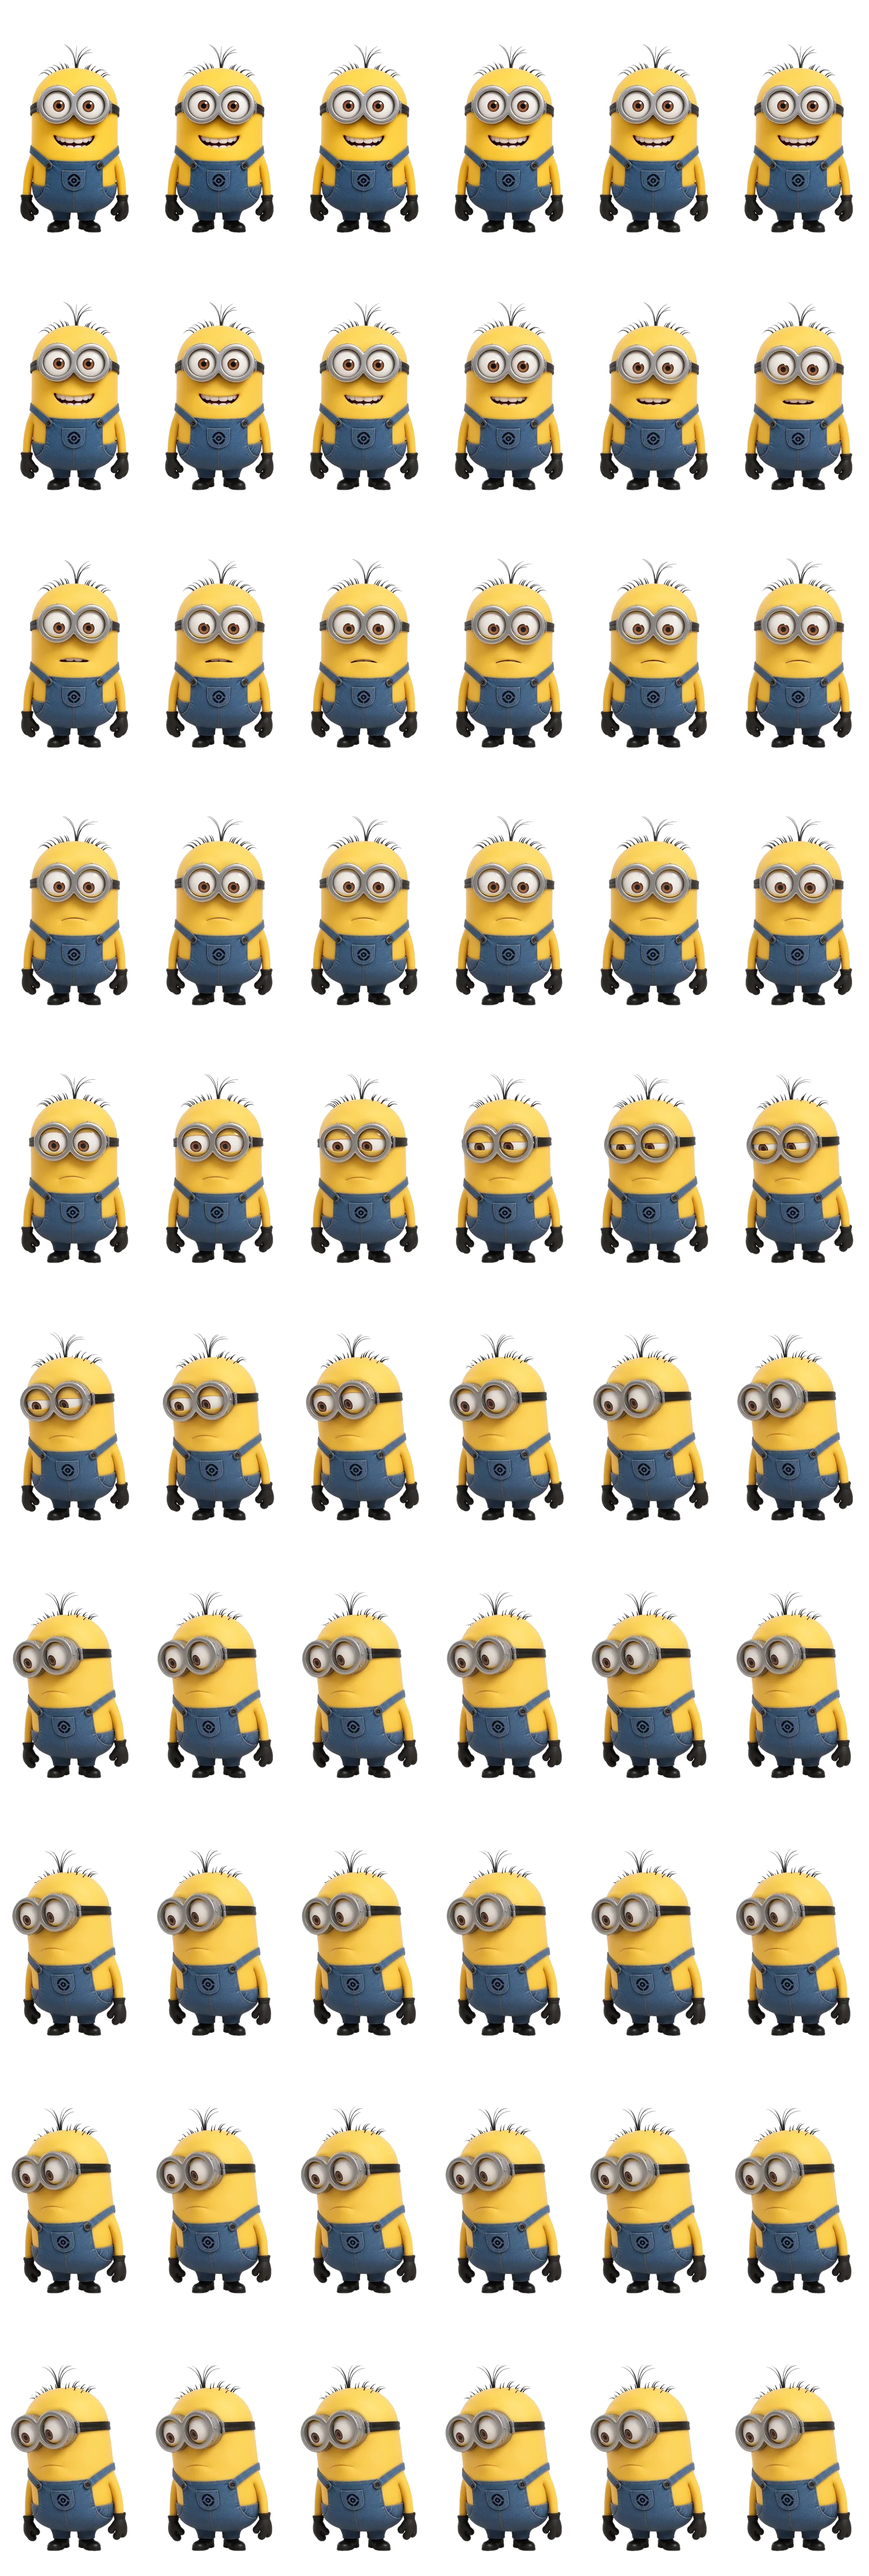
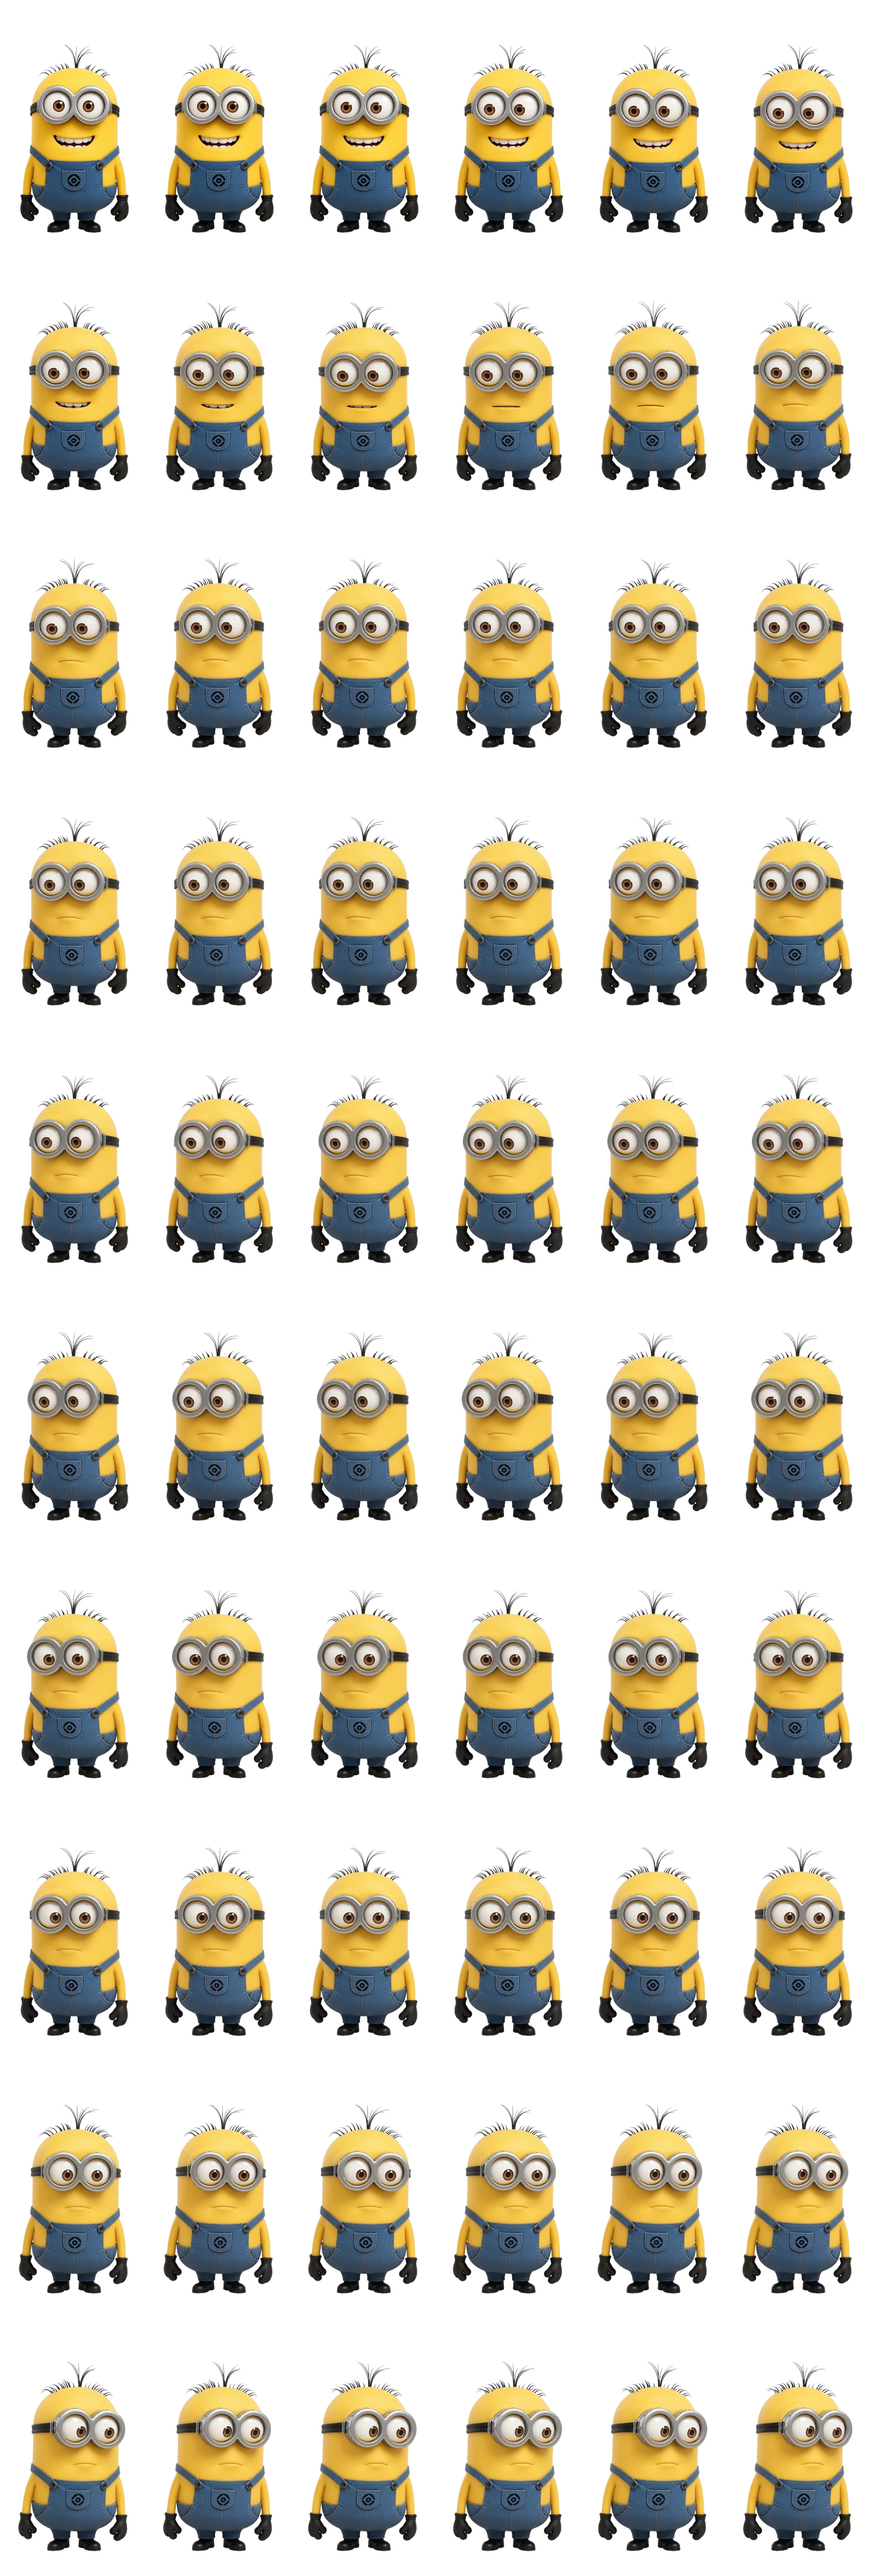
fix(login): yeni yukarı bakış kareleri entegre edildi, şifre alanında ellerle göz kapatma düzeltildi
- Güncellenen 1080x1920 kareler ile sprite sheet'ler ve idle.webp yeniden üretildi
- Göz takibi yeni karelere göre ayarlandı: yukarı sol (frame 65-75), merkez (frame 135), yukarı sağ (frame 95-105)
- Şifre alanına odaklanıldığında veya şifre yazılırken ellerin gözü kapatıp kapalı tutması (frame 180 sabit tutma) sağlandı
- Şifre alanından çıkıldığında karakter ellerini indirerek normal bakışa geri dönüyor

diff --git a/app/admin/login/page.tsx b/app/admin/login/page.tsx
@@ -376,9 +376,9 @@ export default function AdminLoginPage() {
   const characterMode: CharacterMode =
     step !== 'credentials'
       ? 'idle'
-      : activeField === 'password' && password.length > 0
+      : activeField === 'password'
         ? 'privacy'
-        : activeField === 'email' && email.length > 0
+        : activeField === 'email'
           ? 'typing'
           : 'pointer';
 
@@ -754,19 +754,24 @@ const FRAMES_PER_SHEET = 60;
 const TOTAL_FRAMES = 240;
 
 function gazeFrame(progress: number) {
-  const clampedProgress = Math.min(Math.max(progress, 0), 1);
-  // Klipte sol bakış 1–2.5 sn (frames 33–75), sağ bakış 3.3–5.1 sn (frames 99–153)
-  const time =
-    clampedProgress < 0.5
-      ? 1.1 + clampedProgress * 2.8
-      : 3.3 + (clampedProgress - 0.5) * 3.6;
-  return Math.min(TOTAL_FRAMES - 1, Math.max(0, Math.round(time * 30)));
+  const p = Math.min(Math.max(progress, 0), 1);
+  if (p < 0.4) {
+    // Sola / Yukarı Sola bakış (frame 65 - 75)
+    const t = p / 0.4;
+    return Math.round(64 + t * 10);
+  } else if (p > 0.6) {
+    // Sağa / Yukarı Sağa bakış (frame 95 - 105)
+    const t = (p - 0.6) / 0.4;
+    return Math.round(94 + t * 10);
+  }
+  // Merkeze / öne bakış (frame 135)
+  return 134;
 }
 
 function targetFrameForMode(mode: CharacterMode, emailLength: number) {
-  if (mode === 'privacy') return 239; // 8.0s - gözleri ellerle kapatma
+  if (mode === 'privacy') return 179; // Frame 180: eller gözleri kapalı tutar
   if (mode === 'typing') return gazeFrame(Math.min(emailLength, 32) / 32);
-  return 174; // 5.8s - merkeze / öne bakış
+  return 134; // Frame 135: merkeze / öne bakış (idle)
 }
 
 function CharacterFrames({
@@ -779,8 +784,8 @@ function CharacterFrames({
   const canvasRef = useRef<HTMLCanvasElement>(null);
   const characterRef = useRef<HTMLDivElement>(null);
   const behaviorRef = useRef({ mode, emailLength });
-  const targetFrameRef = useRef(174);
-  const currentFrameRef = useRef(174);
+  const targetFrameRef = useRef(134);
+  const currentFrameRef = useRef(134);
   const rafRef = useRef<number>(0);
   const sheetsRef = useRef<HTMLImageElement[]>([]);
   const lastDrawnFrameRef = useRef<number>(-1);
@@ -822,7 +827,7 @@ function CharacterFrames({
       const img = new window.Image();
       img.src = `/media/character/sheet_${i}.webp`;
       img.onload = () => {
-        // As soon as sheet 2 (containing idle frame 174) or sheet 0 loads, draw initial pose
+        // As soon as sheet 2 (containing idle frame 134 and privacy frame 179) or sheet 0 loads, draw initial pose
         if (i === 2 || i === 0) {
           drawFrame(currentFrameRef.current);
         }
